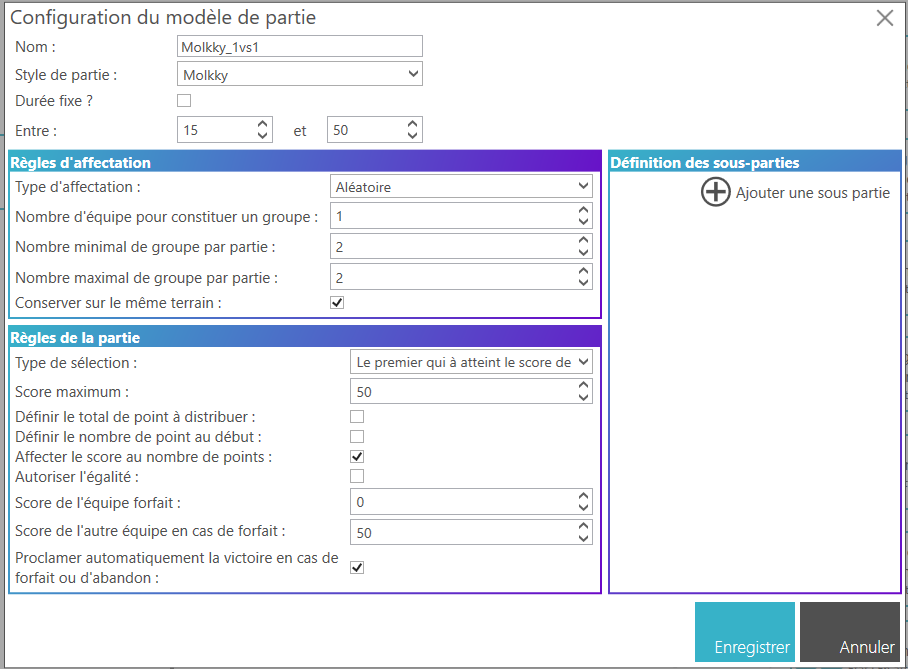
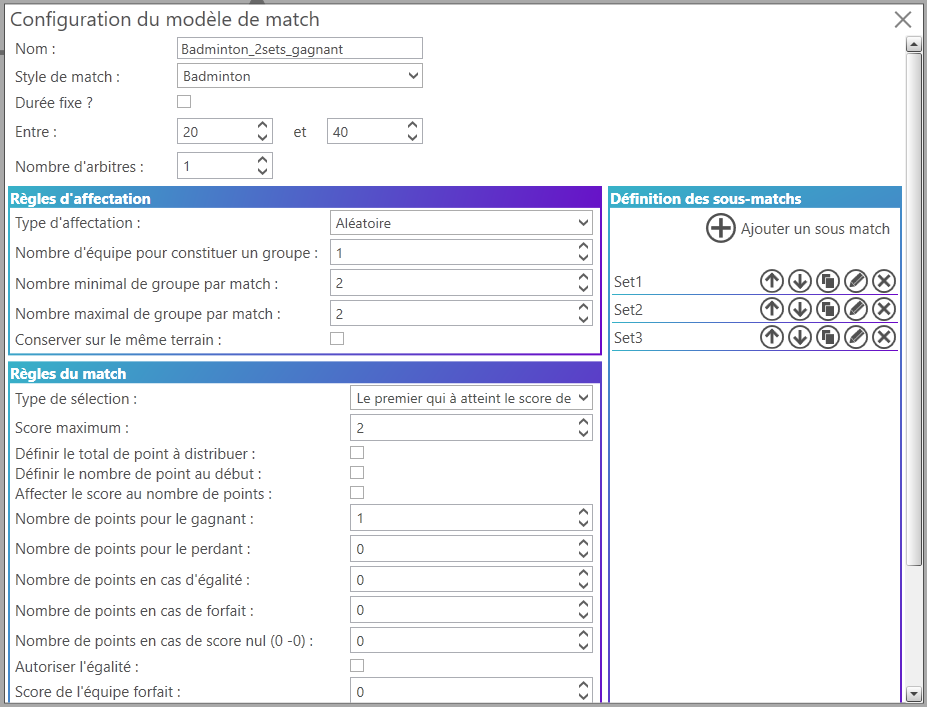
Add referee management documentation for SmartContest
- Introduced a new document detailing the management of referees within the SmartContest application.
- Included instructions for adding, modifying, and deleting referees.
- Provided guidance on printing QR codes for referees.
- Added relevant images to enhance understanding of the process.

Changed region(s): [[0.0, 0.0, 1.0, 1.0]]

diff --git a/docs/work-with-competition/manage-referee.md b/docs/work-with-competition/manage-referee.md
@@ -1,0 +1,49 @@
+# Gérer les arbitres
+
+La gestion des arbitres permet d'affecter un ou plusieurs arbitres aux différents matchs. Une fois affectés, les arbitres peuvent depuis l'application mobile SmartContest :
+
+- suivre les matchs et enregistrer les scores directement.
+- consulter les matchs qu'ils ont déjà arbitrés et les scores enregistrés.
+- consulter les prochains matchs à arbitrer.
+
+Pour gérer les arbitres, depuis l'application SmartContest, cliquez sur "Gérer les arbitres" dans l'onglet "Equipes Inscrites" de votre compétition.
+
+![Liste des arbitres](../img/work-with-competition/manage-referee/01.png)
+
+!!! note
+    Selon la configuration des rencontres de la compétition, il est possible d'affecter aucun, un ou plusieurs arbitres à un match. Veillez bien à configurer les rencontres de votre compétition en conséquence. Pour plus de détails sur cette étape, consultez la section [Concevoir une compétition](design-competition.md).
+
+## Ajouter un arbitre
+
+1. Cliquez sur le bouton **Ajouter un arbitre**.
+
+      ![Ajouter un arbitre](../img/work-with-competition/manage-referee/02.png)
+
+2. Remplissez les informations requises dans le formulaire qui s'affiche.
+
+      ![Formulaire ajout arbitre](../img/work-with-competition/manage-referee/03.png)
+
+3. Cliquez sur **Enregistrer** pour ajouter la pré-inscription.
+
+!!! note
+      Vous pouvez assigner un ou plusieurs terrains à un arbitre afin que lors de l'affectation des matchs, il ne soit proposé que pour les matchs sur ces terrains. Si aucun terrain n'est assigné, l'arbitre pourra arbitrer tous les matchs de la compétition.
+
+## Modifier ou supprimer un arbitre
+
+1. Dans la liste des arbitres, localisez celui que vous souhaitez modifier ou supprimer.
+
+      ![Liste des arbitres](../img/work-with-competition/manage-referee/01.png)
+
+2. Pour modifier un arbitre, cliquez sur ![icône édition](../img/work-with-competition/manage-participant/9.png). Apportez les modifications nécessaires dans le formulaire et cliquez sur **Enregistrer**.
+
+3. Pour supprimer un arbitre, cliquez sur ![icône suppression](../img/work-with-competition/manage-participant/8.png).
+
+## Imprimer les QR codes des arbitres
+
+1. Dans la liste des arbitres, cliquez sur le bouton **Imprimer**.
+
+      ![Imprimer QR codes](../img/work-with-competition/manage-referee/10.png)
+
+2. Un document PDF contenant les QR codes de tous les arbitres est généré. Vous pouvez l'imprimer pour distribuer les QR codes aux arbitres.
+
+      ![Document PDF QR codes](../img/work-with-competition/manage-referee/11.png)

diff --git a/docs/work-with-competition/index.md b/docs/work-with-competition/index.md
@@ -7,7 +7,7 @@ Dans smartcontest, une compétition se déroule selon le flux suivant :
 ```mermaid
 flowchart TB
     A[1- Activation] --> B
-    B[2- Enregistrement des participants] --> C
+    B[2- Enregistrement des participants et des arbitres] --> C
     C[3- Création des zones de compétition] --> D
     D[4- Affectation des équipes] --> E
     subgraph sb1 [Gestion d'une phase]
@@ -29,10 +29,10 @@ Cette étape n'est requise que dans le cas d'une compétition de 24 heures.
 !!! warning Important
     L'activation doit obligatoirement se faire depuis l'application SmartContest connecté à internet la veille ou le jour de la compétition.
 
-## 2- Enregistrement des participants
+## 2- Enregistrement des participants et des arbitres
 
-Une fois votre compétition activée, vous pouvez commencer à enregistrer les participants.
-Pour plus de détails sur cette étape, consultez la section [Gérer les participants](manage-participant.md).
+Une fois votre compétition activée, vous pouvez commencer à enregistrer les participants et les arbitres.
+Pour plus de détails sur cette étape, consultez les sections [Gérer les participants](manage-participant.md) et [Gérer les arbitres](manage-referee.md).
 
 ## 3- Gestion des zones de compétition
 

diff --git a/docs/work-with-competition/design-competition.md b/docs/work-with-competition/design-competition.md
@@ -95,10 +95,12 @@ Voici la procédure pour créer ou modifier un modèle de rencontre :
 
 2. Remplissez les champs **Nom** et **Style de partie**.
 
-3. Cochez la case **Durée fixe ?** si vous souhaitez que la rencontre/partie/match ait une durée fixe. 
+3. Cochez la case **Durée fixe ?** si vous souhaitez que la rencontre/partie/match ait une durée fixe.
 
       - Si cette option est cochée, renseignez la **Durée de la partie**. 
       - Si cette option n'est pas cochée, renseignez la **Durée minimale de la partie** et la **Durée maximale de la partie**.
+
+4. Renseignez le nombre d'arbitres nécessaires pour arbitrer la rencontre/partie/match. Si vous ne souhaitez pas affecter d'arbitre à la rencontre/partie/match, renseignez 0.
 
 !!! info
       Le **Style de partie** détermine la façon dont les scores sont saisis et affichés dans l'application mobile SmartContest et au niveau de l'affichage dynamique.
